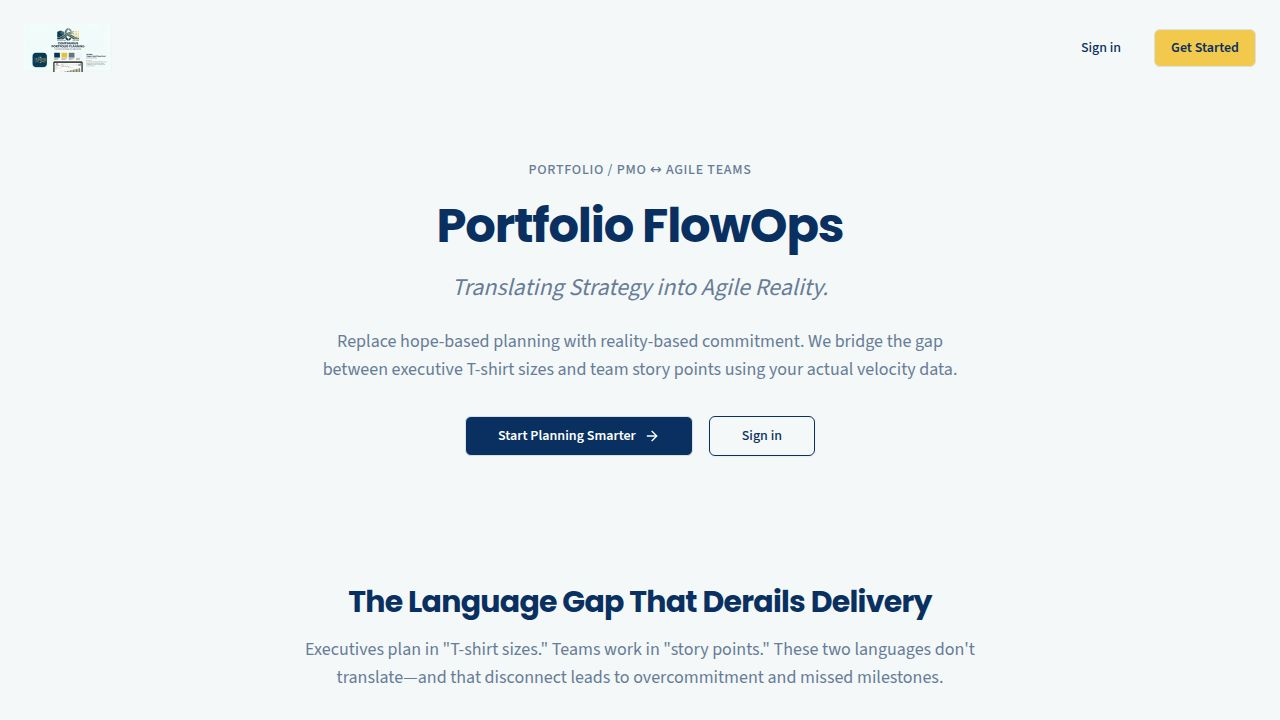
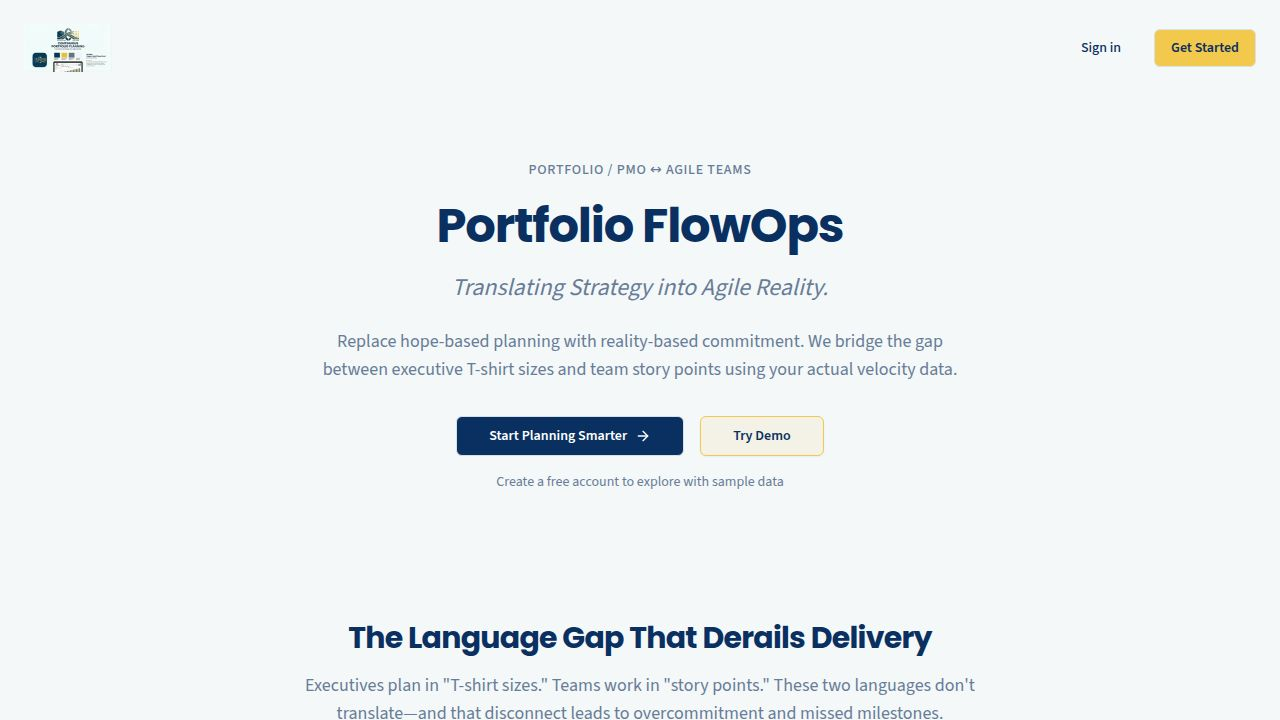
Update branding and add a demo mode option to the landing page
Update the application branding to "Portfolio FlowOps", modify the landing page to include a "Try Demo" button that directs users to signup, and update the dashboard welcome message.

Replit-Commit-Author: Agent
Replit-Commit-Session-Id: a539fe60-f5dc-498e-bbf0-02c1042dcb2a
Replit-Commit-Checkpoint-Type: full_checkpoint
Replit-Commit-Event-Id: cd7f7586-685f-43ab-ace8-458cc8d3cf2a
Replit-Commit-Screenshot-Url: https://storage.googleapis.com/screenshot-production-us-central1/4c71c063-0d14-4bc3-87b3-e9f976cfff1a/a539fe60-f5dc-498e-bbf0-02c1042dcb2a/lEQlJ3G
Replit-Helium-Checkpoint-Created: true

Changed region(s): [[0.2188, 0.825, 0.75, 1.0], [0.3438, 0.5806, 0.6562, 0.6722]]

diff --git a/client/src/pages/landing.tsx b/client/src/pages/landing.tsx
@@ -43,19 +43,22 @@ export default function Landing() {
               Replace hope-based planning with reality-based commitment. We bridge the gap between 
               executive T-shirt sizes and team story points using your actual velocity data.
             </p>
-            <div className="flex items-center justify-center gap-4">
+            <div className="flex items-center justify-center gap-4 flex-wrap">
               <Link href="/signup">
                 <Button size="lg" className="gap-2 bg-[#0A3062] hover:bg-[#0A3062]/90 text-white font-semibold px-8" data-testid="button-hero-cta">
                   Start Planning Smarter
                   <ArrowRight className="h-4 w-4" />
                 </Button>
               </Link>
-              <Link href="/login">
-                <Button size="lg" variant="outline" className="border-[#0A3062] text-[#0A3062] hover:bg-[#0A3062]/5" data-testid="button-hero-login">
-                  Sign in
+              <Link href="/signup">
+                <Button size="lg" variant="outline" className="border-[#F2C94C] bg-[#F2C94C]/10 text-[#0A3062] hover:bg-[#F2C94C]/20 font-semibold" data-testid="button-hero-demo">
+                  Try Demo
                 </Button>
               </Link>
             </div>
+            <p className="text-sm text-[#687C99] mt-4">
+              Create a free account to explore with sample data
+            </p>
           </div>
         </section>
 

diff --git a/client/src/pages/dashboard.tsx b/client/src/pages/dashboard.tsx
@@ -283,7 +283,7 @@ export default function Dashboard() {
           <div className="w-16 h-16 bg-primary/10 rounded-lg flex items-center justify-center mx-auto mb-4">
             <BarChart3 className="w-8 h-8 text-primary" />
           </div>
-          <h2 className="text-2xl font-heading font-bold mb-2">Welcome to Continuous Portfolio Planning</h2>
+          <h2 className="text-2xl font-heading font-bold mb-2">Welcome to Portfolio FlowOps</h2>
           <p className="text-muted-foreground mb-6">
             Get started by loading demo data to see how we help you forecast team capacity and prioritize epics.
           </p>
